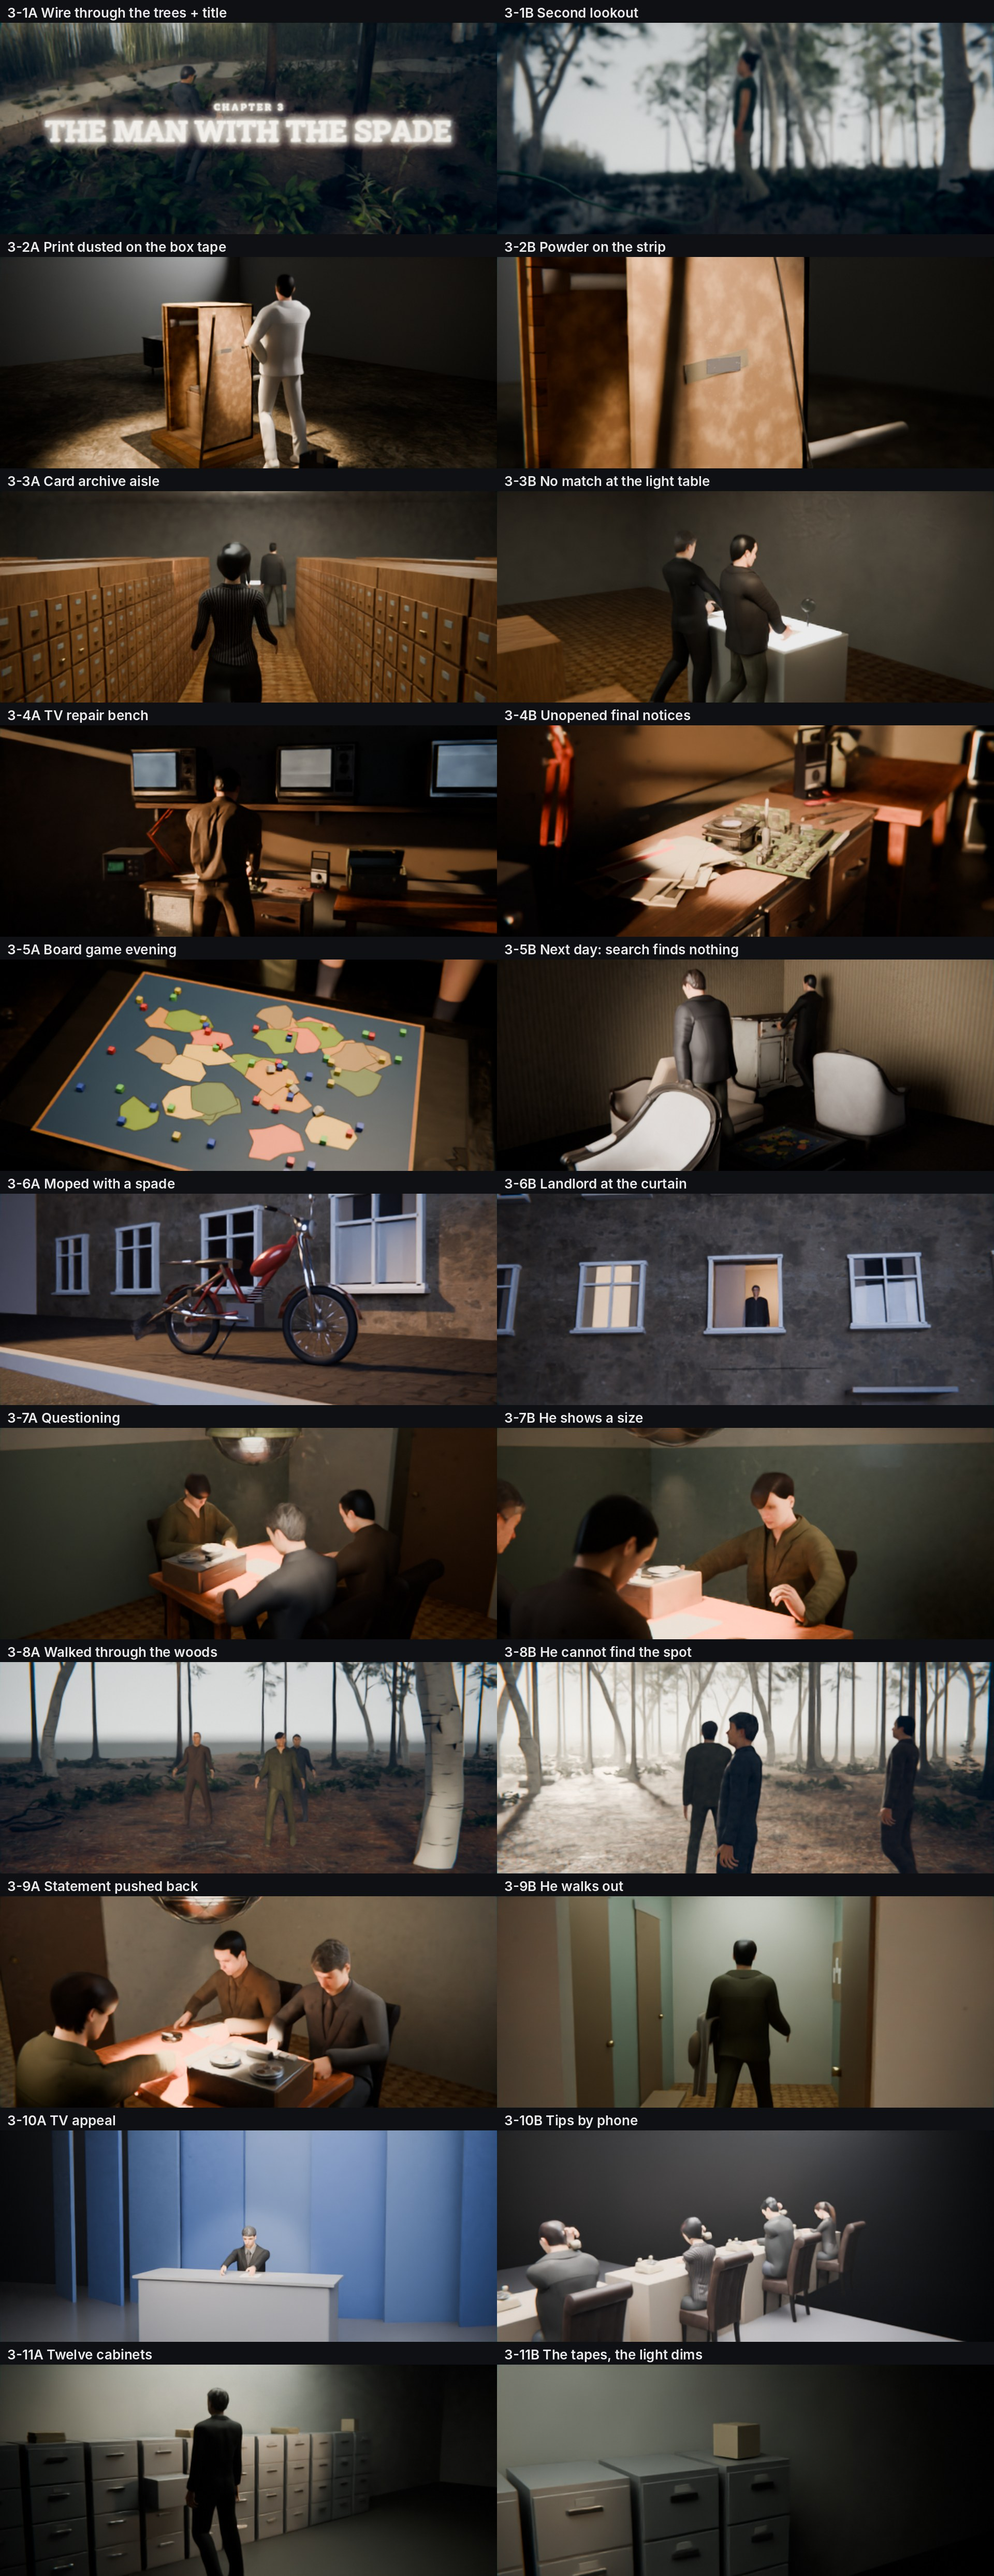
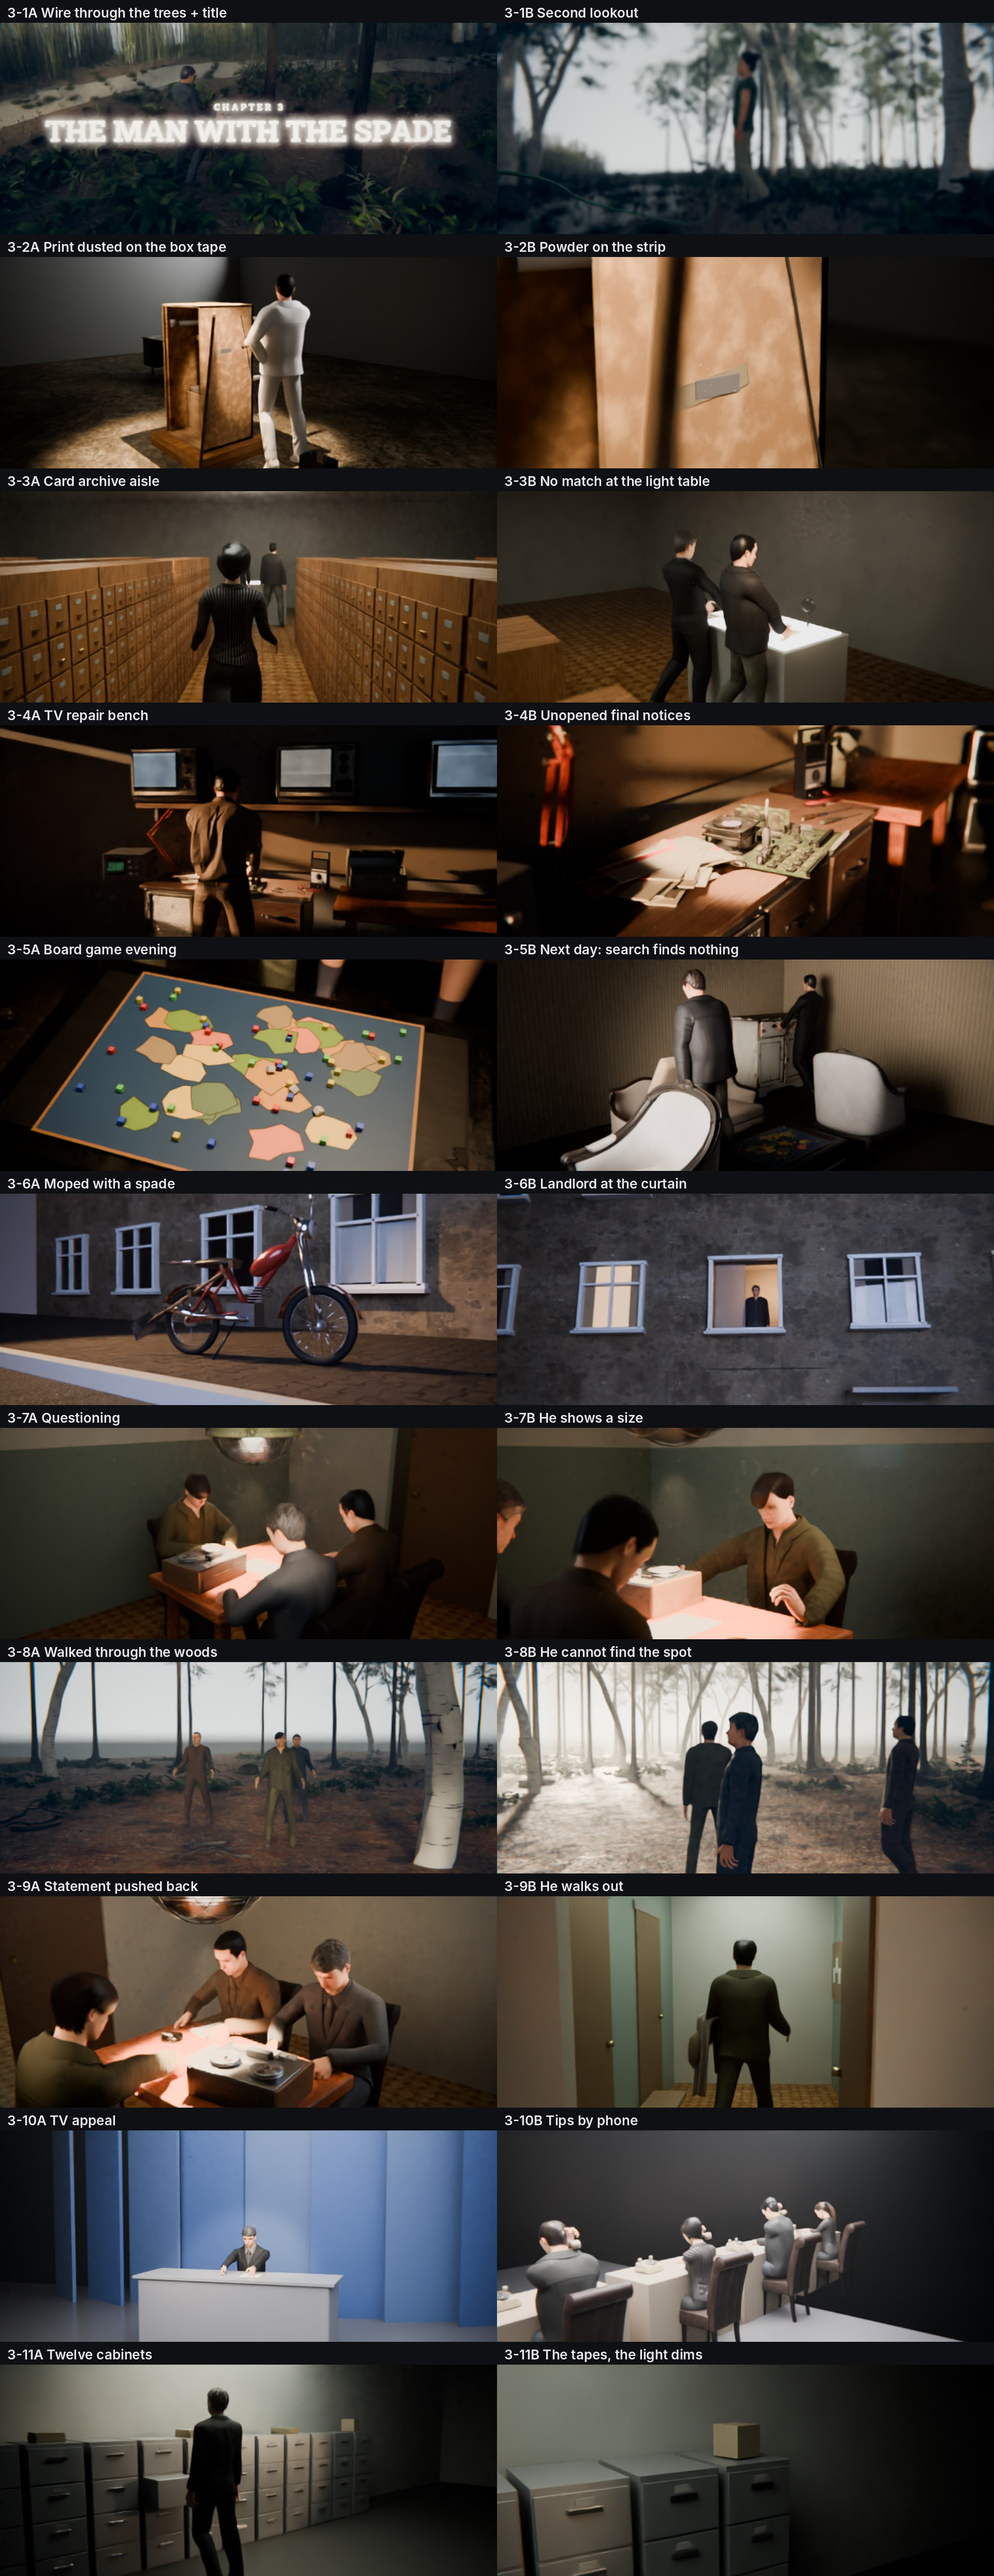
B v3: 3-2B close-up framed tighter, the box's low air pipe kept out of frame
Claude-Session: https://claude.ai/code/session_01XfwPSmdQ4Yjh3CAg9vZd6z

Changed region(s): [[0.5, 0.0935, 0.75, 0.187], [0.7812, 0.0935, 0.9062, 0.187]]

diff --git a/projects/radio-jingle/scenes/sc_b_boxprint.py b/projects/radio-jingle/scenes/sc_b_boxprint.py
@@ -63,6 +63,9 @@ def anim(c, t, move):
     if move == "lift":                                   # she has stepped back; only the strip and the hanging powder
         B.hide_person(h)                                  # she has left the frame: nothing of her (or the brush) may poke in
         c["brush"].hide_render = True; c["brush"].location = (0, 0, -30)
+        for o in bpy.data.objects:                         # the box's low air pipe pokes into this close-up's corner and
+            if o.name.startswith("PipeLow"):               # reads as a floating handle (hub 3-2B); the wide 3-2A keeps it
+                o.hide_render = True
         bpy.context.view_layer.update()
         return
     fwd = B.fwd_of(h)
@@ -86,6 +89,6 @@ def cam(a, b, tgt, lens):
 MOVES = {
     "dust": dict(kind="anim", dof=2.8, cam=cam((3.5, -2.4, 1.65), (3.1, -2.0, 1.6), (0.6, 0.05, 1.0), 28),
                  anim=lambda c, t: anim(c, t, "dust"), focus=lambda c, t: TAPE),
-    "lift": dict(kind="anim", dof=2.0, cam=cam((1.9, -1.3, 1.35), (1.45, -0.9, 1.25), (TAPE.x, TAPE.y + 0.1, TAPE.z), 45),
+    "lift": dict(kind="anim", dof=2.0, cam=cam((1.9, -1.3, 1.55), (1.5, -0.95, 1.45), (TAPE.x, TAPE.y + 0.1, TAPE.z + 0.04), 60),
                  anim=lambda c, t: anim(c, t, "lift"), focus=lambda c, t: TAPE),
 }
